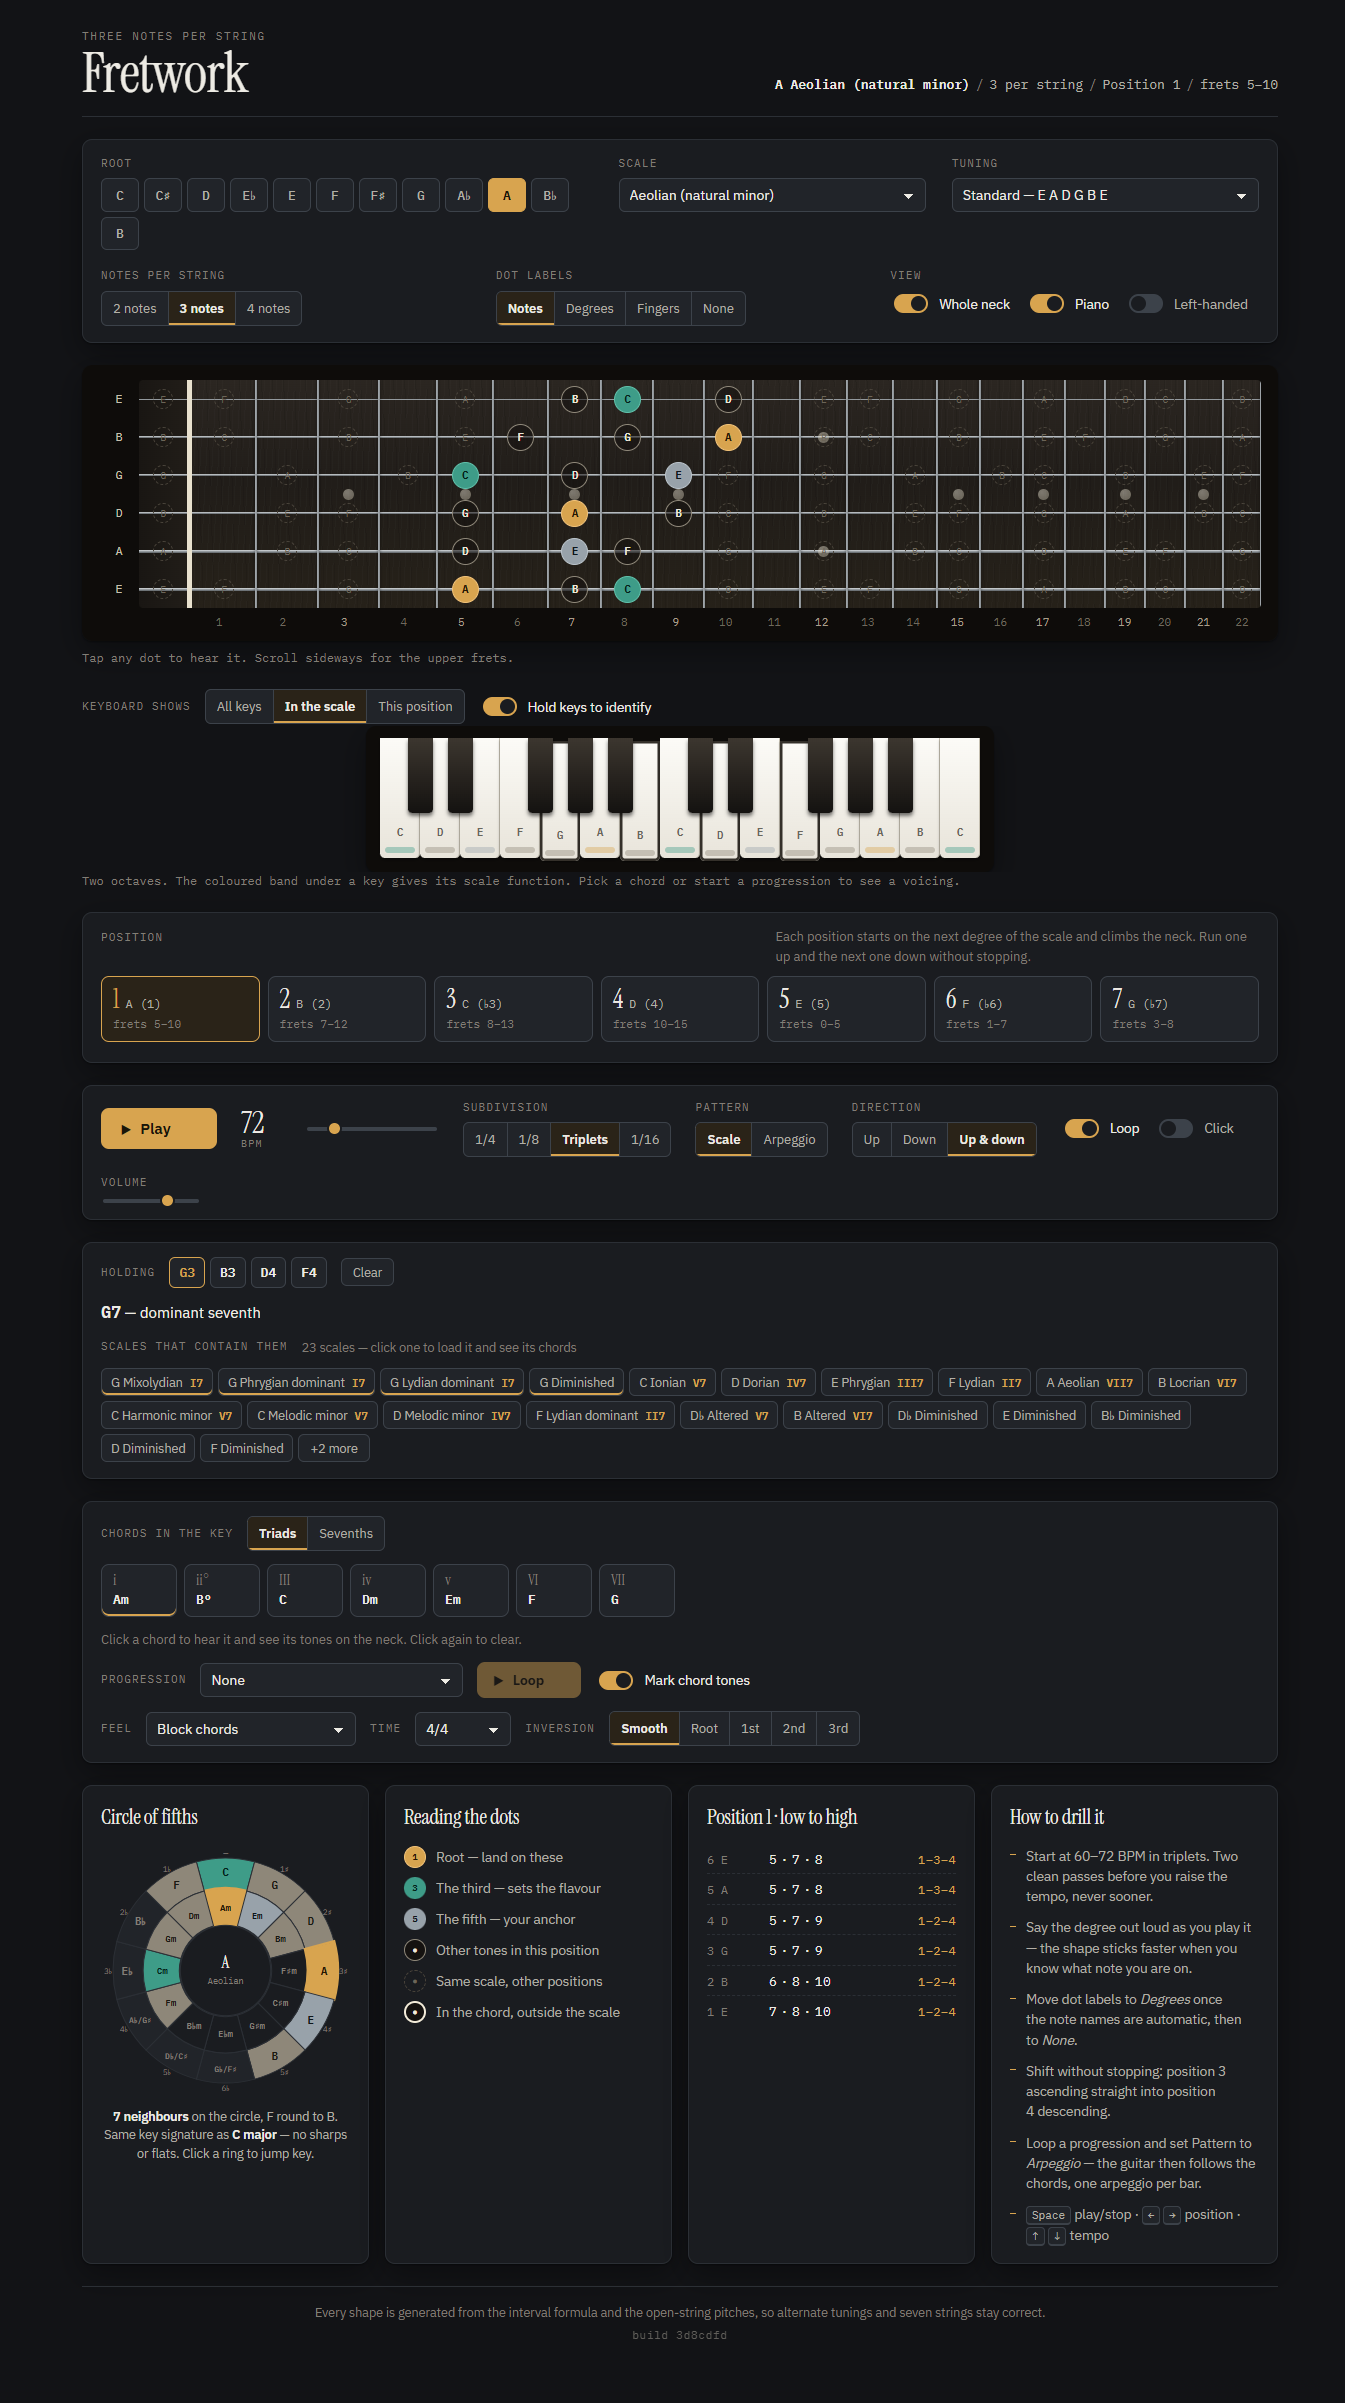
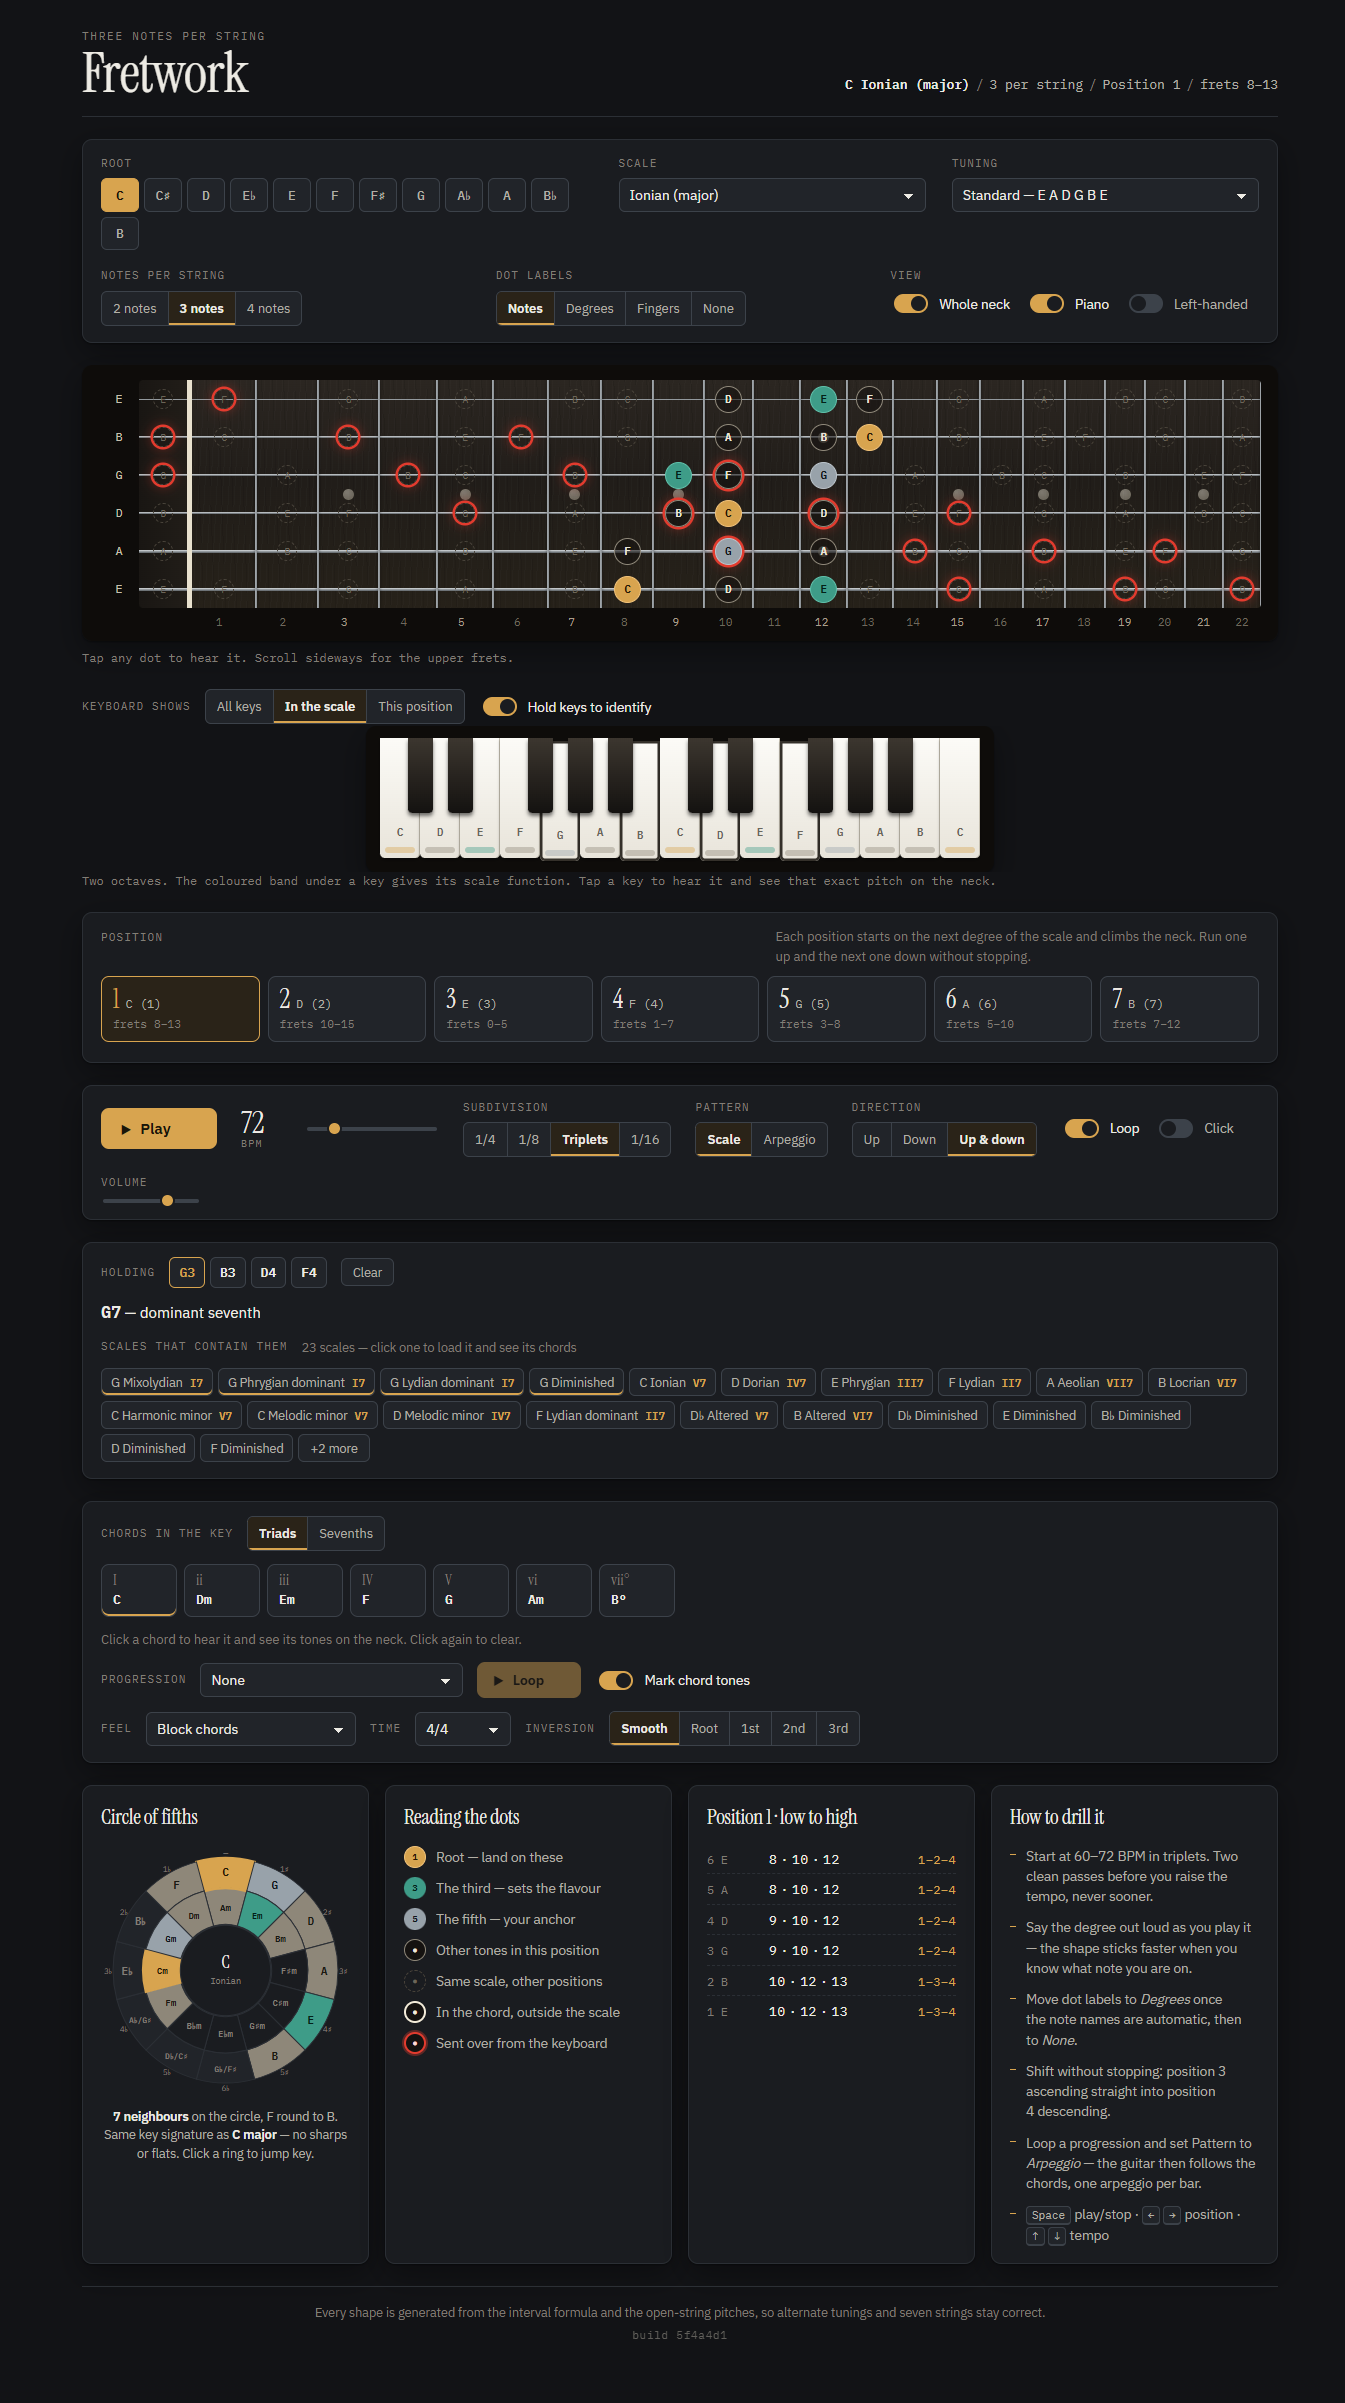
Show keyboard notes on the neck
The two instruments were only linked one way: playing the scale lit the
matching piano key, but tapping a key showed nothing on the guitar.

Tapping a key now marks that exact pitch everywhere it sits on the
fretboard -- middle C in five places -- ringed in the same red the
keyboard uses for its own marks, and clears itself after a couple of
seconds. Pitches outside the loaded scale get a dot of their own, since
otherwise the neck has nowhere to show them. While keys are held for
identification the pitches stay lit until released.

Verified against independently computed string-and-fret positions for
notes in and out of the scale, across the full range of the keyboard.

Claude-Session: https://claude.ai/code/session_01AfxrZKbjk62vFmj4er5mPs

diff --git a/index.html b/index.html
@@ -171,6 +171,9 @@ select:hover{border-color:var(--accent)}
 /* in the chord but not in the scale — a borrowed note, and often the whole
    point of the chord (the G# in an E major over A minor) */
 .dot.borrowed{background:rgba(18,15,12,.62); color:#F3EBD9; border-color:#F3EBD9; border-width:2px}
+/* a pitch sent over from the keyboard; red ties it to the keyboard's own marks */
+.dot.piano-only{background:rgba(18,15,12,.7); color:#FFD9D4; border-color:var(--key-mark); border-width:2px}
+.dot.from-piano{box-shadow:0 0 0 2.5px var(--key-mark), 0 0 14px rgba(226,59,46,.65); z-index:5}
 .dot.ghost:hover{border-style:solid; color:var(--dot-tone-ink)}
 .dot.is-playing{box-shadow:0 0 0 3px var(--dot-root), 0 0 16px rgba(216,164,79,.7);
   transform:scale(1.2); z-index:6}
@@ -355,6 +358,8 @@ input[type="range"]::-moz-range-thumb{width:13px; height:13px; border-radius:50%
 .legend .sw-tone{background:#151210; color:var(--dot-tone-ink); border-color:var(--dot-tone)}
 .legend .sw-ghost{border-color:var(--ghost); border-style:dashed; color:var(--ghost-ink)}
 .legend .sw-borrowed{background:#151210; border-color:#F3EBD9; border-width:2px; color:#F3EBD9}
+.legend .sw-piano{background:#151210; border-color:var(--key-mark); border-width:2px; color:#FFD9D4;
+  box-shadow:0 0 0 2px rgba(226,59,46,.35)}
 
 .shape{margin:0; padding:0; list-style:none; display:flex; flex-direction:column; gap:2px}
 .shape li{display:grid; grid-template-columns:52px 1fr auto; gap:10px; align-items:baseline;
@@ -525,6 +530,7 @@ footer{font-size:12.5px; color:var(--ink-3); text-align:center; border-top:1px s
         <li><span class="swatch sw-tone">&#9679;</span> Other tones in this position</li>
         <li><span class="swatch sw-ghost">&#9679;</span> Same scale, other positions</li>
         <li><span class="swatch sw-borrowed">&#9679;</span> In the chord, outside the scale</li>
+        <li><span class="swatch sw-piano">&#9679;</span> Sent over from the keyboard</li>
       </ul>
     </div>
     <div class="panel card">
@@ -544,7 +550,7 @@ footer{font-size:12.5px; color:var(--ink-3); text-align:center; border-top:1px s
     </div>
   </section>
 
-  <footer>Every shape is generated from the interval formula and the open-string pitches, so alternate tunings and seven strings stay correct.<span id="build">build 3d8cdfd</span></footer>
+  <footer>Every shape is generated from the interval formula and the open-string pitches, so alternate tunings and seven strings stay correct.<span id="build">build 5f4a4d1</span></footer>
 </div>
 
 <script>
@@ -882,6 +888,15 @@ function center(n){ return ((FP[n - 1] + FP[n]) / 2) * 100; }
 
 /* ---------------- render ---------------- */
 var shape = null, posShapes = [];
+/* pitches the keyboard is showing on the neck: held keys while identifying,
+   plus a short flash for a key you simply tapped */
+var pianoFlash = [], pianoFlashTimer = null;
+function neckFromPiano(){
+  var set = {};
+  if(state.identify) state.held.forEach(function(m){ set[m] = true; });
+  pianoFlash.forEach(function(m){ set[m] = true; });
+  return set;
+}
 function posCount(){
   var sc = scale();
   if(sc.chromatic) return Math.min(13, MAXFRET - state.nps + 2);
@@ -976,7 +991,7 @@ function drawPiano(){
     ? (ord
         ? "Red discs are the chord's voicing, numbered in the order the pattern strikes them. Keys light as they are hit."
         : "Red discs are the chord as it is actually voiced — change the inversion and watch them move.")
-    : "Two octaves. The coloured band under a key gives its scale function. Pick a chord or start a progression to see a voicing.";
+    : "Two octaves. The coloured band under a key gives its scale function. Tap a key to hear it and see that exact pitch on the neck.";
 }
 
 /* ---------------- chords ---------------- */
@@ -1542,6 +1557,8 @@ function drawBoard(){
     });
   }
 
+  var fromPiano = neckFromPiano();
+
   var h = S * ROW, names = "", openCol = "", neck = "", nums = "", row, s, n, f;
 
   for(row = 0; row < S; row++){
@@ -1577,10 +1594,13 @@ function drawBoard(){
       var di = iv.indexOf(rel);
       var hit = inPos[s + ":" + f];
       var isBorrowed = di < 0 && borrowed[pc];
-      if(!hit && !isBorrowed && (di < 0 || !state.showAll)) continue;
+      var isPiano = !!fromPiano[open[s] + f];
+      if(!hit && !isBorrowed && !isPiano && (di < 0 || !state.showAll)) continue;
       var nt = hit || {s:s, f:f, midi:open[s] + f, pc:pc, degIdx:di, deg:degs[di], finger:0, order:-1};
-      var cls = hit ? "dot " + tierOf(nt) : (isBorrowed ? "dot borrowed" : "dot ghost");
-      var lbl = isBorrowed
+      var cls = hit ? "dot " + tierOf(nt)
+                    : (isBorrowed ? "dot borrowed" : (di < 0 ? "dot piano-only" : "dot ghost"));
+      if(isPiano) cls += " from-piano";
+      var lbl = (isBorrowed || (isPiano && di < 0))
         ? (state.labels === "none" || state.labels === "finger" ? "" : SHARP[pc])
         : labelFor(nt, !hit);
       var title = (nt.deg ? spell(nt.deg) + " · degree " + nt.deg.label
@@ -2115,21 +2135,33 @@ function buildControls(){
     var k = e.target.closest(".pkey"); if(!k) return;
     var m = Number(k.getAttribute("data-midi"));
     playTone(m);
-    if(!state.identify) return;
-    var at = state.held.indexOf(m);
-    if(at >= 0) state.held.splice(at, 1); else state.held.push(m);
-    state.showAllHits = false;
-    drawPiano(); drawIdentify();
+    if(state.identify){
+      var at = state.held.indexOf(m);
+      if(at >= 0) state.held.splice(at, 1); else state.held.push(m);
+      state.showAllHits = false;
+      pianoFlash = [];
+      drawPiano(); drawIdentify(); drawBoard(); applyMarks();
+      return;
+    }
+    /* not identifying — show the note on the neck briefly, then let it go */
+    pianoFlash = [m];
+    if(pianoFlashTimer) clearTimeout(pianoFlashTimer);
+    drawBoard(); applyMarks();
+    pianoFlashTimer = setTimeout(function(){
+      pianoFlash = []; pianoFlashTimer = null;
+      drawBoard(); applyMarks();
+    }, 2000);
   });
 
   $("#identifyMode").onchange = function(){
     state.identify = this.checked;
     if(!state.identify) state.held = [];
-    drawPiano(); drawIdentify();
+    pianoFlash = [];
+    drawPiano(); drawIdentify(); drawBoard(); applyMarks();
   };
   $("#clearHeld").onclick = function(){
     state.held = []; state.showAllHits = false;
-    drawPiano(); drawIdentify();
+    drawPiano(); drawIdentify(); drawBoard(); applyMarks();
   };
   $("#scaleHits").addEventListener("click", function(e){
     if(e.target.id === "moreHits"){ state.showAllHits = true; drawIdentify(); return; }

diff --git a/README.md b/README.md
@@ -16,6 +16,8 @@ One self-contained HTML file. No build step, no dependencies, no backend.
 
 **Identify** — the whole thing in reverse. Turn on *Hold keys to identify* and press keys down on the keyboard: it names the chord, including slash chords when the bass is not the root (E–G–C reads as C/E), and lists every scale in the library that contains those notes. Each result carries the chord's **Roman numeral in that scale**, so a G7 shows as I7 in G mixolydian, V7 in C major, IV7 in D dorian and VI7 in B locrian — which is the same chord doing four different jobs. Click any result to load that scale and see all of its chords.
 
+**The two instruments are linked both ways.** Tapping a key shows that *exact pitch* everywhere it lives on the neck — middle C turns up in five places — ringed in the same red the keyboard uses, and notes outside the loaded scale still appear. While you are holding keys, every held pitch stays lit on the neck. Running the scale player the other way lights the matching key as each note sounds.
+
 **Circle of fifths** — the scale's notes are highlighted in place, so you can see that a major scale is seven *adjacent* slices of the circle and that harmonic minor isn't. Reports the key signature, derived from the scale's own spelling. Click either ring to jump key.
 
 **Chords** — the seven chords the current scale generates, stacked in thirds through the scale itself, as triads or sevenths with Roman numerals. Every mode gets its own set, and it stays correct in the awkward corners: A harmonic minor yields Am(maj7), Bm7♭5, Cmaj7♯5, Dm7, E7, Fmaj7, G♯°7. Click a chord to hear it and light its tones on the neck.
